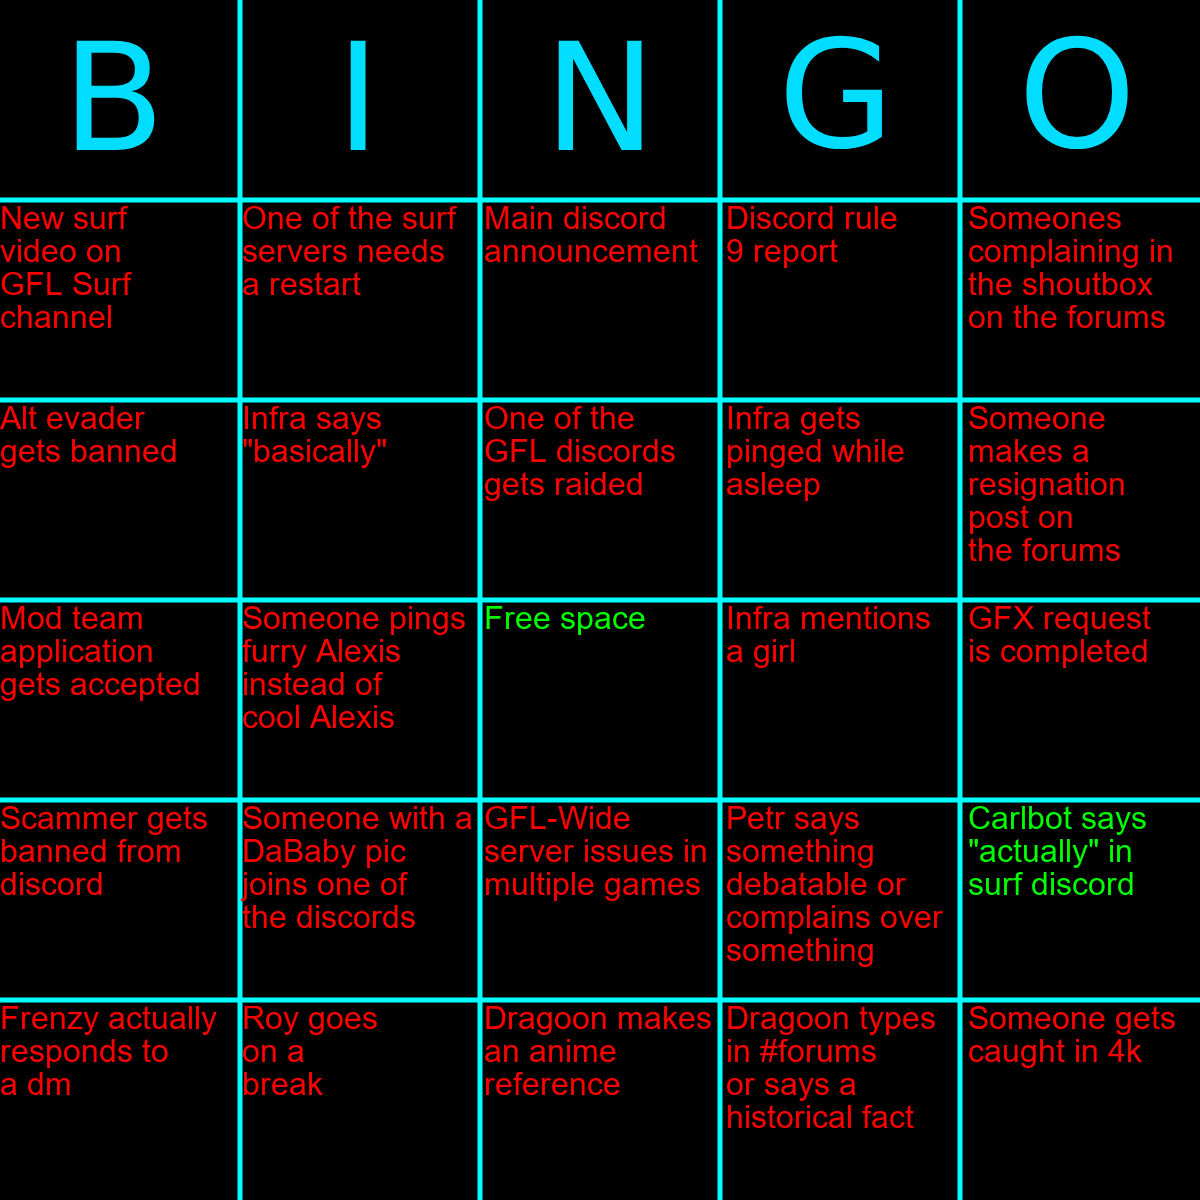
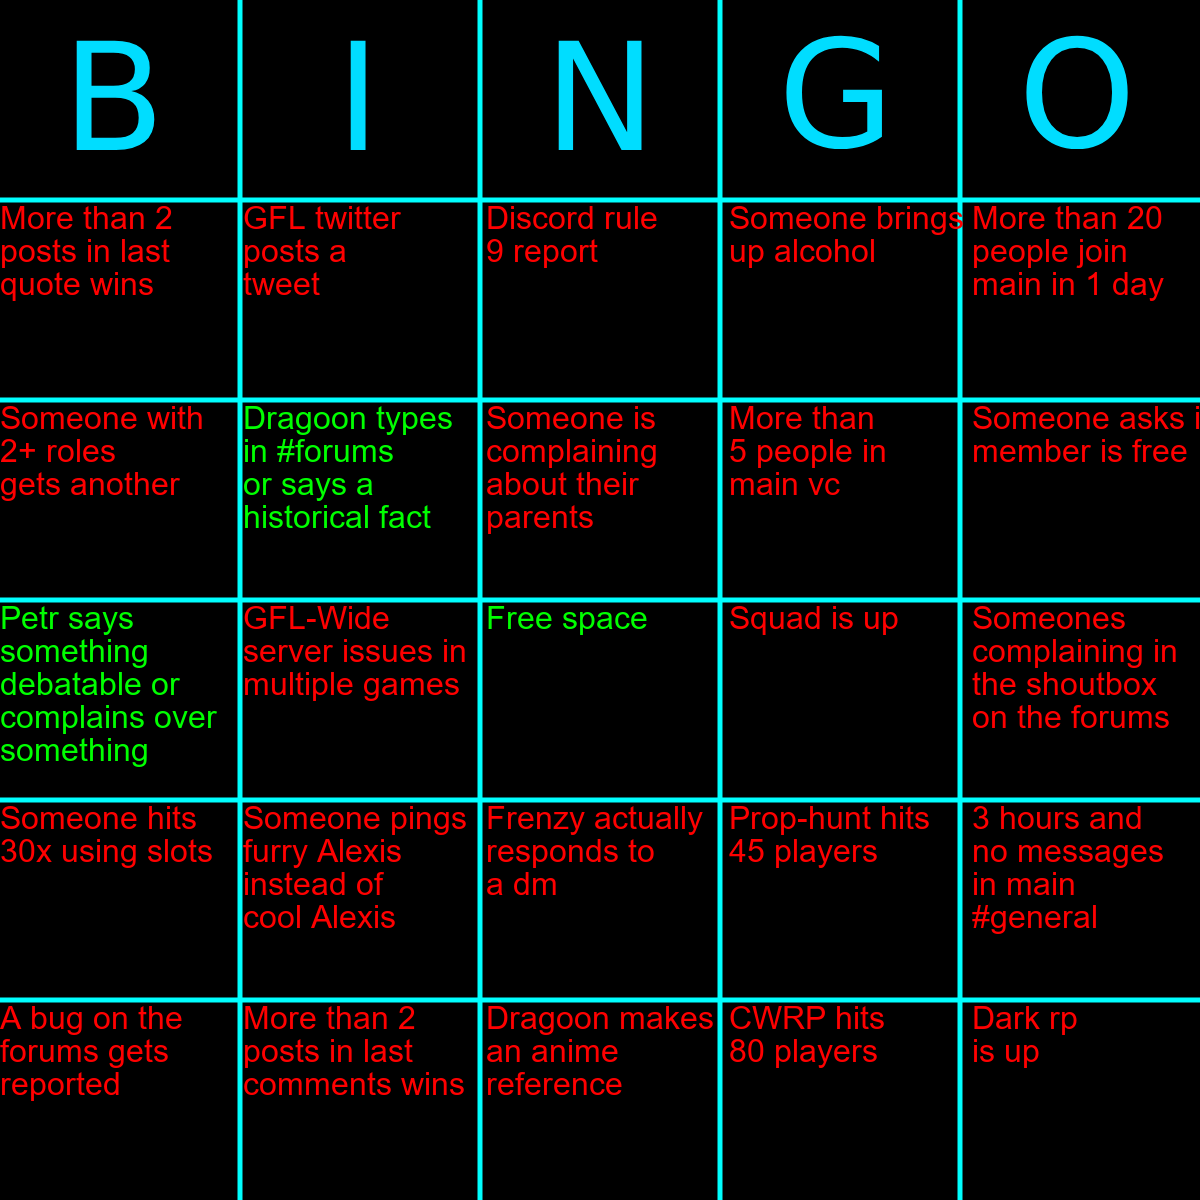
Able to undo updates and see when board was made

diff --git a/lib/bingo/__init__.py b/lib/bingo/__init__.py
@@ -3,6 +3,7 @@ from PIL import ImageFont
 from PIL import ImageDraw
 from array import *
 import random
+import datetime
 
 class Bingo():
     possibleSquares = ['Dragoon types\nin #forums\nor says a\nhistorical fact', 'One of the surf\nservers needs\na restart',
@@ -12,9 +13,16 @@ class Bingo():
                    'Someone with a\nDaBaby pic\njoins one of\nthe discords', 'Frenzy actually\nresponds to\na dm',
                    'Discord rule\n9 report', 'GFX request\nis completed', 'Mod team\napplication\ngets accepted',
                    'Petr says\nsomething\ndebatable or\ncomplains over\nsomething', 'Infra mentions\na girl', 'Roy goes\non a\nbreak',
-                   'New surf\nvideo on\nGFL Surf\nchannel',
-                   'One of the\nGFL discords\ngets raided', 'Someone pings\nfurry Alexis\ninstead of\ncool Alexis', 'Infra gets\npinged while\nasleep',
-                   'Infra says\n"basically"', 'Carlbot says\n"actually" in\nsurf discord', 'Someone gets\ncaught in 4k', 'Someone with\n2+ roles\ngets another'
+                   'New surf\nvideo on\nGFL Surf\nchannel', 'One of the\nGFL discords\ngets raided', 'Someone pings\nfurry Alexis\ninstead of\ncool Alexis', 
+                   'Infra gets\npinged while\nasleep', 'Infra says\n"basically"', 'Carlbot says\n"actually" in\nsurf discord', 'Someone gets\ncaught in 4k', 'Someone with\n2+ roles\ngets another',
+                   'Someone gets\naround a\nfilter', 'More than\n5 people in\nmain vc', '15 posts on\nthe forums\nwithin 24 hrs', 'A bug on the\nforums gets\nreported', 
+                   'Someone hits\n30x using slots', 'CWRP hits\n80 players', 'A rust server\nhits 100 pop', 'Surf hits 100\nplayers', 'GFL twitter\nposts a\ntweet', 
+                   'Someone brings\nup veganism', 'There is a\ndebate in\n#politics', '3 hours and\nno messages\nin main\n#general', 'Someone posts\nskribble.io or\ngarticphone\nlink',
+                   'Someone posts\na metal song', 'Someone posts\na rap song', 'Someone posts\na country song', 'Someone is\ncomplaining \nabout their\nparents', 'Someone posts\ntheir own\nartwork in\nmain #art',
+                   'Someone asks if\nmember is free', 'More than\n$200 donated\nin 1 day', 'More than\n$50 donated\nfrom 1 person', 'Someone asks\nabout a\ndead server', 'Someone brings\nup alcohol', 
+                   'NSFW ban\nin discord', 'NSFW ban\nfrom in-game\nspray', 'Prop-hunt hits\n45 players', '2fort hits\n33 players', 'Hightower hits\n33 players', 'TTT Anarchy\nhits 33 pop',
+                   'Dark rp\nis up', 'Squad is up', 'More than 2\nposts in last\ncomments wins', 'More than 2\nposts in last\nquote wins', 'More than 20\npeople join\nrust in 1 day',
+                   'More than 20\npeople join\nmain in 1 day', 'Someone says\nstepbro or\nstepsis', 'Someone says\nsus outside\nof AH',
                    ]
 
     eventBoard = [
@@ -32,6 +40,8 @@ class Bingo():
                    [0, 0, 0, 0, 0]
                    ]
 
+    startTime = 0
+
     def __init__(self):
         random.shuffle(self.possibleSquares)
         k = 0
@@ -41,53 +51,54 @@ class Bingo():
                 k += 1
         
         self.populateBoard()
+        self.startTime = datetime.datetime.now()
 
     def populateBoard(self, row=-1, col=-1):
+        img = Image.open('lib/bingo/BINGOtemplatepng.png')
+        d1 = ImageDraw.Draw(img)
+        myFont = ImageFont.truetype("arial.ttf", 32)
+
         if (row > -1):
-            img = Image.open('lib/bingo/BINGOtemplatepng.png')
-            d1 = ImageDraw.Draw(img)
-            myFont = ImageFont.truetype("arial.ttf", 32)
             for i in range(0, 5):
                 for j in range(0, 5):
-                    if (i == row and col == j):
-                        d1.text((i*242, j*200 + 200), self.eventBoard[row][col], font=myFont, fill = (0, 255, 0))
-                        continue
                     if (i == 2 and j == 2):
-                        d1.text((i*242, j*200 + 200), 'Free space', font=myFont, fill = (0, 255, 0))
+                        d1.text((i*243, j*200 + 200), 'Free space', font=myFont, fill = (0, 255, 0))
                         continue
                     if (self.stateBoard[j][i] == 0):
-                        d1.text((i*242, j*200 + 200), self.eventBoard[i][j], font=myFont, fill = (255, 0, 0))
+                        d1.text((i*243, j*200 + 200), self.eventBoard[i][j], font=myFont, fill = (255, 0, 0))
                     else:
-                        d1.text((i*242, j*200 + 200), self.eventBoard[i][j], font=myFont, fill = (0, 255, 0))
+                        d1.text((i*243, j*200 + 200), self.eventBoard[i][j], font=myFont, fill = (0, 255, 0))
         else:
-            img = Image.open('lib/bingo/BINGOtemplatepng.png')
-            d1 = ImageDraw.Draw(img)
-            myFont = ImageFont.truetype("arial.ttf", 32)
             for i in range(0, 5):
                 for j in range(0, 5):
 
                     if (i == 2 and j == 2):
-                        d1.text((i*242, j*200 + 200), 'Free space', font=myFont, fill = (0, 255, 0))
+                        d1.text((i*243, j*200 + 200), 'Free space', font=myFont, fill = (0, 255, 0))
                         continue
                     
                     if (self.stateBoard[row][col] == 0):
-                        d1.text((i*242, j*200 + 200), self.eventBoard[i][j], font=myFont, fill = (255, 0, 0))
+                        d1.text((i*243, j*200 + 200), self.eventBoard[i][j], font=myFont, fill = (255, 0, 0))
                     else:
-                        d1.text((i*242, j*200 + 200), self.eventBoard[i][j], font=myFont, fill = (0, 255, 0))
+                        d1.text((i*243, j*200 + 200), self.eventBoard[i][j], font=myFont, fill = (0, 255, 0))
     
         img.save('lib/bingo/BINGOedit.png')
 
+    def getStartTime(self):
+        return (self.startTime).strftime("%H:%M:%S")
+    
+    def getStartDate(self):
+        return (self.startTime).strftime("%m/%d/%Y")
+
     def getCol(self, letter: str):
-        col = 0
-        if (letter == "B"):
+        if (letter == "B" or letter == 'b'):
             col = 0
-        elif (letter == "I"):
+        elif (letter == "I" or letter == 'i'):
             col = 1
-        elif (letter == "N"):
+        elif (letter == "N" or letter == 'n'):
             col = 2
-        elif (letter == "G"):
+        elif (letter == "G" or letter == 'g'):
             col = 3
-        elif (letter == "O"):
+        elif (letter == "O" or letter == 'o'):
             col = 4
         
         return col
@@ -123,11 +134,30 @@ class Bingo():
             for j in range(0, 5):
                 print(self.stateBoard[i][j])
 
-    def updatesquare(self, letter: str, square: int):
+    def greenUpdate(self, letter: str, square: int):
         col = self.getCol(letter)
         row = self.getRow(square)
 
         self.stateBoard[row][col] = 1
+        print(self.eventBoard[col][row])
+        self.printStates()
+
+        count = 0
+        for i in range(0, 5):
+            count += self.stateBoard[i][0]
+        
+        # if (count == 5):
+        #     print("Bingo")
+
+        self.populateBoard(col, row)
+    
+    def redUpdate(self, letter: str, square: int):
+        col = self.getCol(letter)
+        row = self.getRow(square)
+
+        self.stateBoard[row][col] = 0
+        print(self.eventBoard[col][row])
+        self.printStates()
         self.populateBoard(col, row)
 
 
